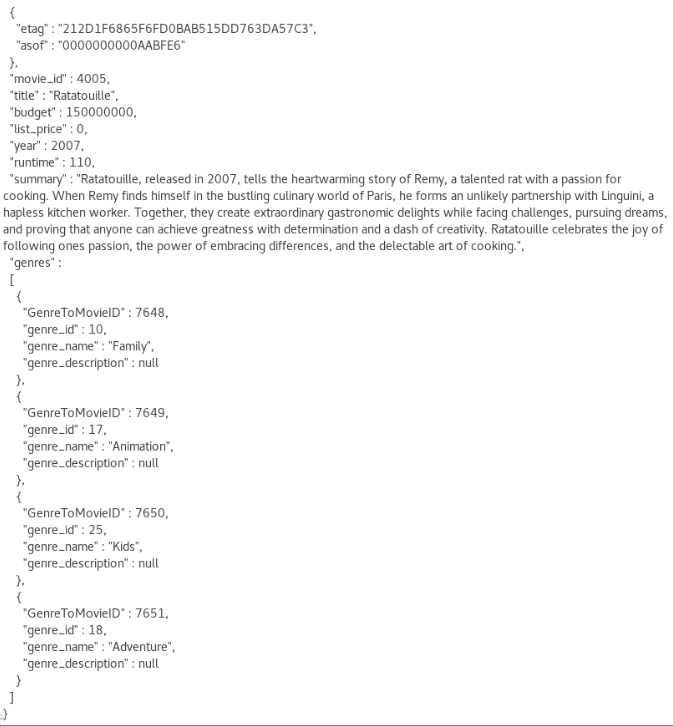
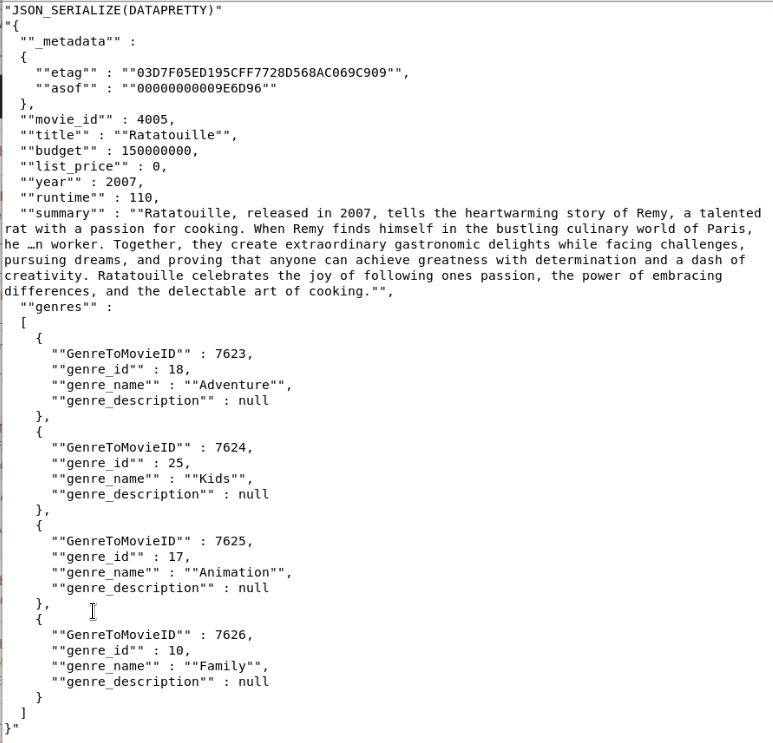
WMS ID 11431: Lab for Oracle CloudWorld HOL-10 (#317)
* WMS ID 11431

Lab for Oracle CloudWorld HOL-10

* WMS ID 11431 - Updating images

* WMS ID 11431: Lab for Oracle CloudWorld HOL-10

Made small grammatical changes and updates to steps based on latest workshop QA

---------

Changed region(s): [[0.0, 0.0, 0.9985, 1.0], [0.2808, 0.5758, 0.312, 0.6061], [0.2808, 0.4545, 0.312, 0.4848]]

diff --git a/23cfree/duality-views/duality-views.md b/23cfree/duality-views/duality-views.md
@@ -22,7 +22,7 @@ This lab assumes you have:
 
 
 ## Task 1: Inserting into SQL tables and duality views
-1. To demonstrate how the underlying base tables are populated when adding an entry into the JSON Duality View, we will first check the base table to ensure the record does not exist. Then, we will insert a record into the duality view and check the base table again. Run the following code:
+1. To demonstrate how the underlying base tables are populated when adding an entry into the JSON Duality View, we will first check the base table to ensure the record does not exist. Then, we will insert a record into the duality view and check the base table again. Copy the sql below and click **Run Script**
 
     ```
     <copy>
@@ -46,7 +46,7 @@ This lab assumes you have:
     ```
     ![adding the movie](images/little.png " ")
 
-2. In this step, we will perform the opposite operation. First, we will look at the duality view, then insert a record into the base table, and finally check the duality view for the updated record. Run the following code:
+2. In this step, we will perform the opposite operation. First, we will look at the duality view, then insert a record into the base table, and finally check the duality view for the updated record. Copy the sql below and click **Run Script**
     ```
     <copy>
     SELECT json_serialize(data PRETTY)
@@ -64,7 +64,7 @@ This lab assumes you have:
 
 ## Task 2: Update and replace a document by ID
 
-1. In the previous lab, you learned how to insert records into a SQL table and a document into the duality view. Now, we will go one step further and update the Kids genre table using SQL. This change will be reflected in all documents that contain the Kids genre. Run the following code:
+1. In the previous lab, you learned how to insert records into a SQL table and a document into the duality view. Now, we will go one step further and update the Kids genre table using SQL. This change will be reflected in all documents that contain the Kids genre. Copy the sql below and click **Run Script**
 
     ```
     <copy>
@@ -76,7 +76,7 @@ This lab assumes you have:
 
     ![showing the genre 25 isnt there](images/no_description.png " ")
 
-2. Run the following code to update the description of the Kids genre:
+2. Let's update the description of the Kids genre. Copy the sql below and click **Run Statement**
  
     ```
     <copy>
@@ -87,7 +87,7 @@ This lab assumes you have:
     ```
     ![showing the update ](images/kids_description.png " ")
 
-3. Now, let's check the Genres table again to see the updated description. Run the following code:
+3. Now, let's check the Genres table again to see the updated description. Copy the sql below and click **Run Script**
     ```
     <copy>
     SELECT json_serialize(data PRETTY)
@@ -98,7 +98,7 @@ This lab assumes you have:
 
     ![showing the new kids description](images/new_kids_genre.png " ")
 
-4. Next, let's examine all movies that contain the Kids genre to see the updated description. Run the following code:
+4. Next, let's examine all movies that contain the Kids genre to see the updated description. Copy the sql below and click **Run Script**
     ```
     <copy>
     SELECT json_serialize(data PRETTY)
@@ -107,7 +107,7 @@ This lab assumes you have:
     ```
     ![showing all the movies with the kids genre](images/updated_kids_description.png " ")
 
-5. Finally, since we made an update via an SQL INSERT statement, let's insert a record via the Duality View. We will add a description to the Family genre. First, check the current description. Run the following code:
+5. Finally, since we made an update via an SQL INSERT statement, let's insert a record via the Duality View. We will add a description to the Family genre. First, check the current description. Copy the sql below and click **Run Script**
 
     ```
     <copy>
@@ -116,7 +116,7 @@ This lab assumes you have:
     ```
     ![checking for a description in the family genre](images/fam_description.png " ")
 
-6. Update the Genres Duality View and add the description by running the following code:
+6. Update the Genres Duality View and add the description for the Family genre. Copy the sql below and click **Run Script**
     ```
     <copy>
     UPDATE GENRES_DV g set g.data = json_transform(data, SET '$.genre_description' = 'Family: Heartwarming and inclusive entertainment for all ages. Dive into a world of love, laughter, and togetherness as you embark on delightful adventures and celebrate the power of family bonds.') WHERE g.data.genre_name = 'Family';
@@ -124,7 +124,7 @@ This lab assumes you have:
     ```
     ![adding a genre description to family](images/family_update.png " ")
 
-7. Lastly, let's check the Duality Views containing the Family genre to see the updated description. Run the following code:
+7. Lastly, let's check the Duality Views containing the Family genre to see the updated description. Copy the sql below and click **Run Script**
     ```
     <copy>
     SELECT json_serialize(data PRETTY)

diff --git a/23cfree/create-views/create-views.md b/23cfree/create-views/create-views.md
@@ -25,7 +25,7 @@ This lab assumes you have:
 ## Task 1: Create the duality views
 
 
-1. Create the `GENRES_DV` duality view. You can either click the trash to clear the worksheet or delete what is there before pasting the code below. Click the **Run** button.
+1. Create the `GENRES_DV` duality view. You can either click the trash to clear the worksheet or delete what is there before pasting the code below. Copy the sql below and click **Run Statement**
 
     ```
     <copy>
@@ -40,7 +40,7 @@ This lab assumes you have:
     ```
 	![Creating the genre view](images/genre_dv.png " ")
 
-2. The next view we will create the `MOVIE_DETAILS_DV` duality view. Since this is for movie details, want them creating new movies as they become available  so we set those to @insert, @update, @delete. You can either click the trash to clear the worksheet or delete what is there before pasting the code below. Click the **Run** button.
+2. The next view we will create the `MOVIE_DETAILS_DV` duality view. Since this is for movie details, want them creating new movies as they become available  so we set those to @insert, @update, @delete. You can either click the trash to clear the worksheet or delete what is there before pasting the code below. Copy the sql below and click **Run Statement**
 
 	```
 	<copy>
@@ -70,7 +70,7 @@ This lab assumes you have:
 
 
 ## Task 2: Adding to our movie schema
-1. Insert a new genre into the `GENRES_DV` table to include kid-friendly movies. Use the following SQL script: Copy the sql below and click the **Run** button.
+1. Insert a new genre into the `GENRES_DV` table to include kid-friendly movies. Use the following SQL script: Copy the sql below and click **Run Statement**
 
 	```
 	<copy>
@@ -114,7 +114,7 @@ This lab assumes you have:
 
 3. Populating a duality view automatically updates the data shown in related duality views by updating their underlying tables. For example, inserting documents into the `MOVIES_DV` duality view updates both the `MOVIE_DETAILS` table and the movies to genre mappings table.
 
-To verify the changes, you can list the contents of the `MOVIES_DV` and `GENRES_DV` duality views. These views are based on the `MOVIES_DETAILS` and genres tables, respectively. Use the following SQL script:
+    To verify the changes, you can list the contents of the `MOVIES_DV` and `GENRES_DV` duality views. These views are based on the `MOVIES_DETAILS` and genres tables, respectively. Copy the sql below and click **Run Script**:
 
     ```
     <copy>
@@ -151,12 +151,12 @@ To verify the changes, you can list the contents of the `MOVIES_DV` and `GENRES_
     ```
     ![showing no document](images/rat_etag.png " ")
 
-3. This shows us the current etage is, "etag" : "6BC843789BC84C54723E8DE208B3168C". Lets replace the full document and replace the summary and genres details.
+3. This shows us the current etage is, "etag" : "E5AB725AD046CA8BE4AA301E08CB4329". Lets replace the full document and replace the summary and genres details.
     ```
     <copy>
 
     UPDATE movies_dv
-        SET data = ('{"etag" : "6BC843789BC84C54723E8DE208B3168C",
+        SET data = ('{"etag" : "E5AB725AD046CA8BE4AA301E08CB4329",
                 "movie_id" : 4005,
                 "title" : "Ratatouille",
                 "budget" : 150000000,
@@ -198,7 +198,7 @@ To verify the changes, you can list the contents of the `MOVIES_DV` and `GENRES_
     SELECT json_serialize(data PRETTY) FROM movies_dv m WHERE m.data.movie_id= 4005;
     </copy>
     ```
-    We can see the genres, Family, Animation, Kids, and Adventure along with the a new etag of 212D1F6865F6FD0BAB515DD763DA57C3.
+    We can see the genres, Family, Animation, Kids, and Adventure along with the a new etag of 03D7F05ED195CFF7728D568AC069C909.
 
     ![showing the newly created document](images/new_etag.png " ")
 
